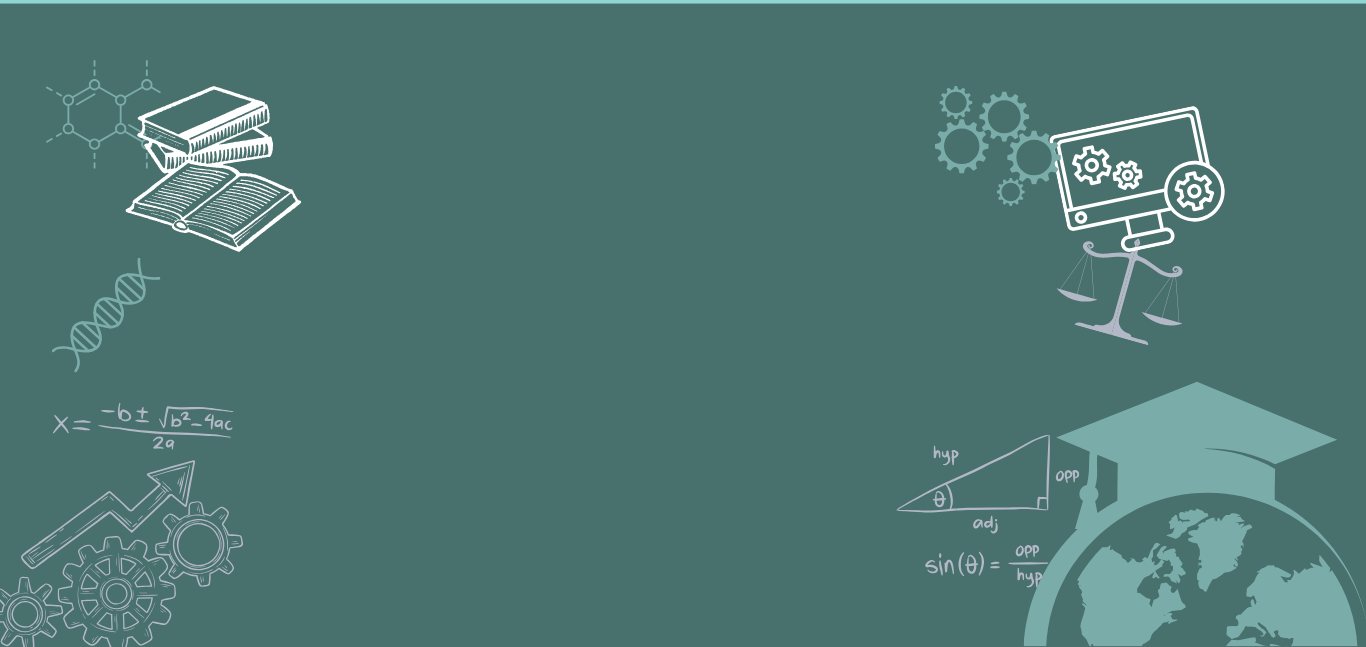
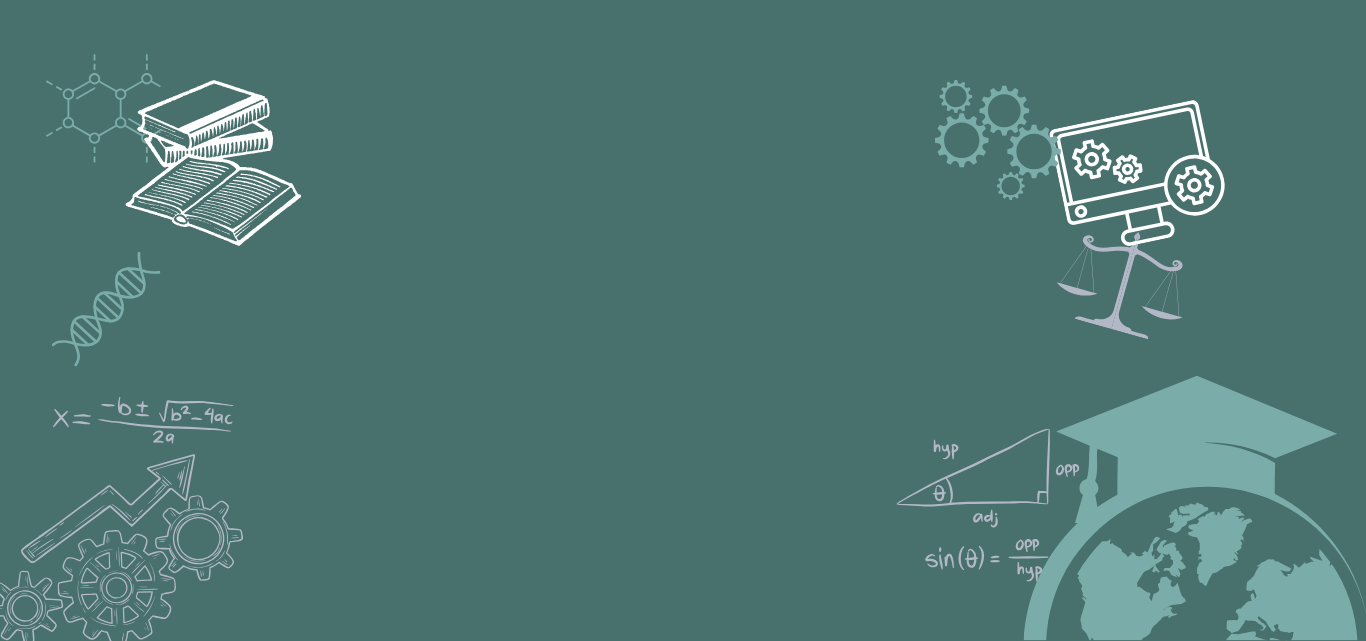
page done. to-do: phone sizing ;)

diff --git a/frontend/src/routes/+page.svelte b/frontend/src/routes/+page.svelte
@@ -5,32 +5,29 @@
    
  </script>
   
-  <div class=" items-center bg-background">
+  <div class="items-center bg-background h-screen main">
       <header>
         <TopNavbar />
       </header>
-  
-    <main class="flex bg-background justify-between center ml-48">
-      <div class="main-graphic py-3 px-3 m-10">
-        <!-- <img src="/graphics/Books.jpeg" alt="Books Icon"> -->
-        <button class="bg-highlight text-white flex py-2 px-4  rounded-full transition-all hover:bg-secondary ">
-          <p class="rounded-full bg-alert mx-2 px-2">ALERT</p> 
-           View our packages for discounted offers
-        </button>
-        <h2 class="text-white text-5xl">Online & <br> at-home <br> tutoring.</h2>
-        <p class="text-highlight text-2xl">
-          Our team of tutors is ready to <br> help you reach your academic <br>goals.
-        </p>
-        <button type="button" class="cursor-pointer flex center bg-highlight my-4 text-white py-2 px-4 rounded-full hover:bg-secondary transition-all">
-          FIND OUT MORE <Icon icon="stash:arrow-reply-duotone" class="scale-x-[-1]" width="26" height="26" />
-        </button>
+      <div class="flex">
+        <div class="gap-3 items-center m-3 pt-12 pl-64">
+          <button class="bg-highlight text-white flex py-2 px-4  rounded-full transition-all hover:bg-secondary ">
+            <p class="rounded-full bg-alert mx-0.5 px-2">ALERT</p> 
+             View our packages for discounted offers
+          </button>
+          <h2 class="text-white text-5xl">Online & <br> at-home <br> tutoring.</h2>
+          <p class="text-highlight text-2xl">
+            Our team of tutors is ready to <br> help you reach your academic <br>goals.
+          </p>
+          <button type="button" class="cursor-pointer flex w-full justify-center bg-highlight my-4 text-white py-1 px-4 rounded-full hover:bg-secondary transition-all">
+            FIND OUT MORE <Icon icon="stash:arrow-reply-duotone" class="scale-x-[-1]" width="26" height="26" />
+          </button>
+        </div>
+        <div class="avatar pr-6 mt-3 pt-24 h-3/12 w-3/12">
+          <img src="/images/LandingAvatar.png" alt="Landing Avatar">
+        </div>
       </div>
-      <div class="graphics">
-        <!-- <img src="/path/to/computer-gears-icon.png" alt="Computer with Gears Icon">
-        <img src="/path/to/maths-icon.png" alt="Maths Elements">
-        <img src="/path/to/globe-icon.png" alt="Graduation Hat with Globe"> -->
-      </div>
-    </main>
+      
   </div>
   
   <style>
@@ -38,6 +35,13 @@
     @tailwind base;
     @tailwind components;
     @tailwind utilities;
+
+    .main
+    {
+      background-image: url('/images/Background.png');
+      background-repeat: no-repeat;
+      background-size: 100%;
+    }
 
   </style>
   
